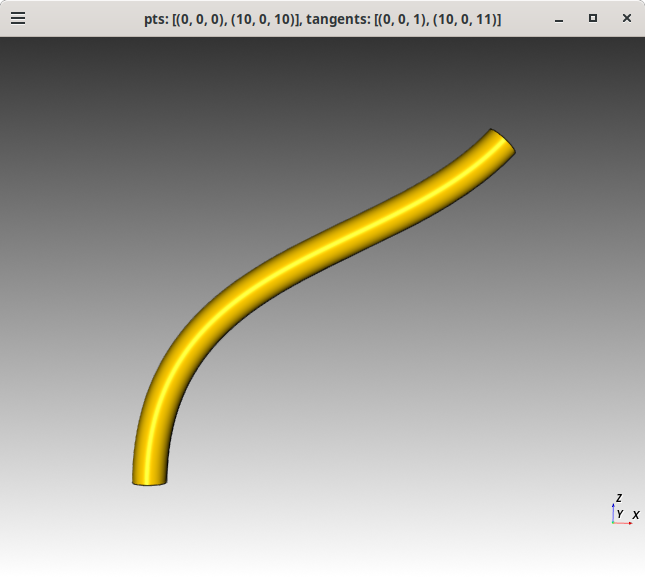
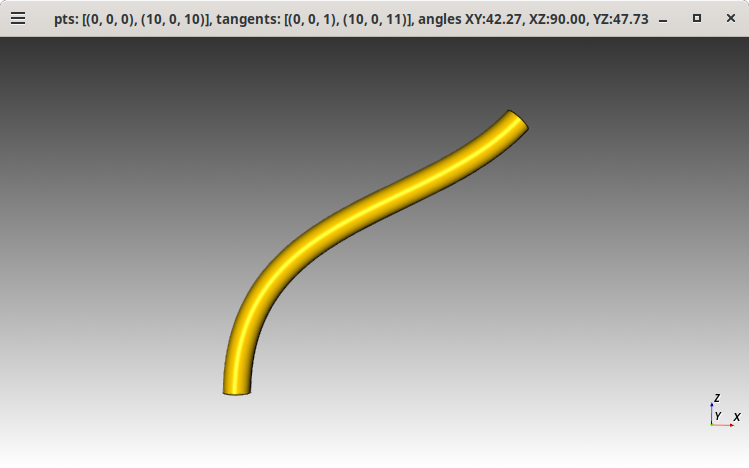
feat: Calculate face angles from primary XY, XZ and YZ
Added the top_face_angles to the image title and for debug we print
both top_face and bottom_face angles to stdout.

Changed region(s): [[0.186, 0.2094, 0.8062, 0.8675], [0.0, 0.0, 1.0, 0.0897], [0.9302, 0.8376, 0.9922, 0.9274]]

diff --git a/cq-sweep.py b/cq-sweep.py
@@ -4,6 +4,7 @@ import cadquery as cq
 from cadquery.vis import show
 import sys
 import argparse
+import math
 
 argparse = argparse.ArgumentParser(description="Sweep a cylinder along a path defined by points and optional tangents.")
 argparse.add_argument(
@@ -34,4 +35,36 @@ path = cq.Workplane("XY").spline(pts, tangents)
 
 # Create a cylinder with a radius of 0.5 along the path
 cylinder = cq.Workplane("XY").circle(0.5).sweep(path)
-show(cylinder, title=f"pts: {pts}, tangents: {tangents}")
+
+# Define the normal vectors for the XY, XZ, and YZ planes
+xy_plane_normal = cq.Vector(0, 0, 1)
+xz_plane_normal = cq.Vector(0, 1, 0)
+yz_plane_normal = cq.Vector(1, 0, 0)
+
+# Function to calculate the angle between the normal face and the plane normal
+def angle_of_plane(normal, plane_normal):
+    return math.degrees(normal.getAngle(plane_normal))
+
+# Get the normal of the top face of the cylinder
+top_face = cylinder.faces(">Z").first().val()
+normal_top_face = top_face.normalAt(top_face.Center())
+
+top_face_angles = {
+    "XY": angle_of_plane(normal_top_face, xy_plane_normal),
+    "XZ": angle_of_plane(normal_top_face, xz_plane_normal),
+    "YZ": angle_of_plane(normal_top_face, yz_plane_normal),
+}
+print(f"Top face angles: {top_face_angles}")
+
+# Get the normal of the bottom face of the cylinder
+bottom_face = cylinder.faces("<Z").first().val()
+normal_bottom_face = bottom_face.normalAt(bottom_face.Center())
+
+bottom_face_angles = {
+    "XY": angle_of_plane(normal_bottom_face, xy_plane_normal),
+    "XZ": angle_of_plane(normal_bottom_face, xz_plane_normal),
+    "YZ": angle_of_plane(normal_bottom_face, yz_plane_normal),
+}
+print(f"Bottom face angles: {bottom_face_angles}")
+
+show(cylinder, title=f"pts: {pts}, tangents: {tangents}, angles XY:{top_face_angles["XY"]:.2f}, XZ:{top_face_angles["XZ"]:.2f}, YZ:{top_face_angles["YZ"]:.2f}")

diff --git a/README.md b/README.md
@@ -35,6 +35,8 @@ $ ./cq-sweep.py --pts="[(0,0,0),(10,0,10)]"
 Curved cylinder along a 45 degree spline with 1 unit long vertical tangents for the bottom and top faces.
 ```bash
 $ ./cq-sweep.py --pts="[(0,0,0),(10,0,10)]" --tangents="[(0,0,1),(10,0,11)]"
+Top face angles: {'XY': 42.27368900609325, 'XZ': 90.00000000000047, 'YZ': 47.72631099390675}
+Bottom face angles: {'XY': 179.99999999999997, 'XZ': 89.99999999999997, 'YZ': 89.99999999999999}
 ```
 ![curved cylinder at an angle](./spline-45-degs_cylinder_top-1-unit-vert-tan_bottom-1-unit-vert-tan_faces-45-degs.png)
 
@@ -42,6 +44,8 @@ Curved cylinder along a 45 degree spline with 1 unit long vertical tangents for 
 and a 1 unit horizontal tangle for the top face
 ```bash
 $ ./cq-sweep.py --pts="[(0,0,0),(10,0,10)]" --tangents="[(0,0,1),(9,0,10)]"
+Top face angles: {'XY': 41.987212495815804, 'XZ': 90.00000000000044, 'YZ': 48.012787504184196}
+Bottom face angles: {'XY': 180.0, 'XZ': 90.0, 'YZ': 90.0}
 ```
 ![curved cylinder at an angle](./spline-45-degs_cylinder_top-1-unit-hori-tan_bottom-1-unit-hori-tan_faces-45-degs.png)
 
@@ -50,6 +54,8 @@ and a 10 unit long horizontal tangent for the bottom face.
 The top and bottom faces "appear" to be parallel to each other.
 ```bash
 $ ./cq-sweep.py -p="[(0,0,0),(10,0,10)]" -t="[(0,0,1),(0,0,10)]"
+Top face angles: {'XY': 2.0349084617646358e-13, 'XZ': 90.0, 'YZ': 90.0000000000002}
+Bottom face angles: {'XY': 179.99999999999994, 'XZ': 90.0, 'YZ': 90.00000000000006}
 ```
 ![curved cylinder at an angle](./spline-45-degs_cylinder_top-1-unit-vert-tan_bottom-10-unit-hori-tan_faces-parallel.png)
 
@@ -58,6 +64,8 @@ and a 10 unit long vertical tangent for the bottom face.
 The top and bottom faces "appear" to be perpendicular to each other.
 ```bash
 $ ./cq-sweep.py -p="[(0,0,0),(10,0,10)]" -t="[(0,0,1),(10,0,0)]"
+Top face angles: {'XY': 89.99999999999987, 'XZ': 90.00000000000047, 'YZ': 4.892543547122269e-13}
+Bottom face angles: {'XY': 180.0, 'XZ': 90.0, 'YZ': 90.0}
 ```
 ![curved cylinder at an angle](./spline-45-degs_cylinder_top-1-unit-vert-tan_bottom-10-unit-vert-tan_faces-perpendicular.png)
 
